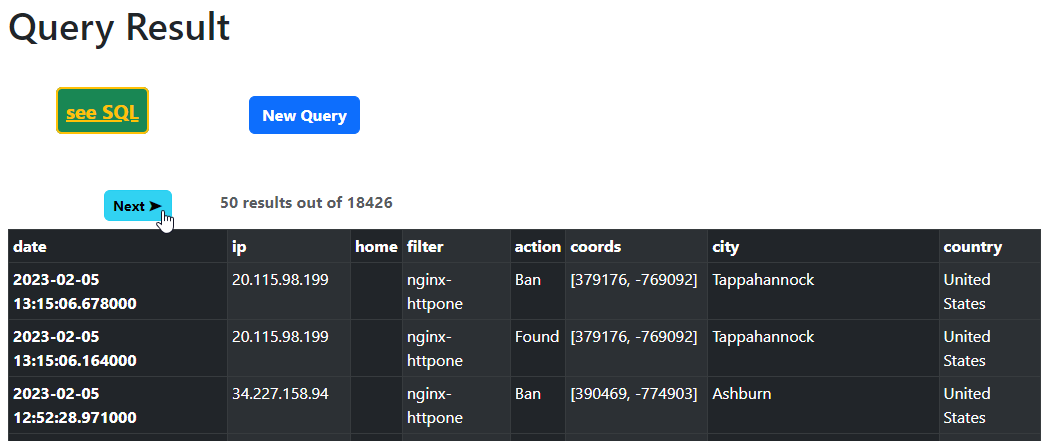
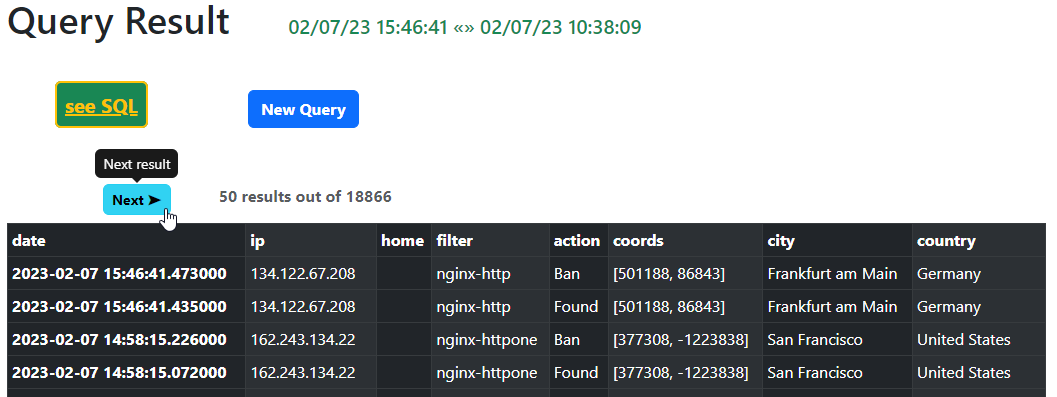
copybutton to db query results. bugfixes and improvements. doc updates

diff --git a/BeatLog/templates/data_view_result.html b/BeatLog/templates/data_view_result.html
@@ -2,11 +2,17 @@
 {% block title %}EzQuery Result{% endblock %}
 
 {% block content %}
-  <h1 class="mb-5">Query Result</h1>
+  <h1 class="mb-5">Query Result
+    {% if bounds %}<span class="fs-5 text-success ms-5">{{ bounds[0] }} «» {{ bounds[1] }}</span>{% endif %}
+  </h1>
 	<a class="mx-5 my-3 fs-5 fw-bold bg-success text-warning border border-warning border-2 p-2 rounded" href="#sqlCollapse" data-bs-toggle="collapse">see SQL</a>
 	<a class="btn btn-primary ms-5 fw-bold" href="{{ url_for('db_view.db_view') }}">New Query</a>
 	  <div class="collapse mb-2" id="sqlCollapse" style="max-width:90vw;overflow:auto;max-height:150px;">
-		<div class="bg-warning mx-5 p-2">{{ SQL_r }}</div>
+		<div class="bg-warning mx-5 p-2">
+		  <button class="btn btn-sm" id="copybutton" style="float:right;" onclick="myFunction()" data-bs-toggle="tooltip" data-bs-title="Copy to clipboard"
+		   ><img src="/static/clipboard.svg"/></button>
+		  <div id="SQLstring">{{ SQL_r }}</div>
+		</div>
 	  </div>
 	{% if table %}
 	  <table class="table table-sm table-hover table-bordered table-striped-columns table-dark me-5 mt-5 caption-top">
@@ -24,7 +30,8 @@
 			{% if 'cityNULL' in prev_seq %}<input type="text" name="cityNULL" value="" hidden>{% endif %}									
 			<input type="text" name="IP_search" value="{{ prev_seq['IP_search'] }}" hidden>
 			<input type="text" name="previous" value="{{ next_seq[1] }}" hidden>
-		    <button type="submit" class="btn btn-sm btn-info mx-5 fw-bold rounded" name="query_log" value="{{ prev_seq['query_log'] }}">⮜ Previous</button>
+		    <button type="submit" class="btn btn-sm btn-info mx-5 fw-bold rounded" name="query_log" value="{{ prev_seq['query_log'] }}"
+			 data-bs-toggle="tooltip" data-bs-title="Return to last Query">⮜ Previous</button>
 		  </form>		
 		{% endif %}		  
 		{% if next_seq %}
@@ -40,9 +47,10 @@
 			{% if 'cityNULL' in next_seq[2] %}<input type="text" name="cityNULL" value="" hidden>{% endif %}			
 			<input type="text" name="IP_search" value="{{ next_seq[2]['IP_search'] }}" hidden>
 			<input type="text" name="previous" value="{{ next_seq[1] }}" hidden>
-		    <button type="submit" class="btn btn-sm btn-info mx-5 fw-bold rounded" name="query_log" value="{{ next_seq[2]['query_log'] }}" formtarget="_blank"> Next ➤</button>
+		    <button type="submit" class="btn btn-sm btn-info mx-5 fw-bold rounded" name="query_log" value="{{ next_seq[2]['query_log'] }}"
+			 data-bs-toggle="tooltip" data-bs-title="Next result"> Next ➤</button>
 		  </form>
-		  {{ table[1] }} results out of {{ next_seq[0] }}
+		  {{ table[1] }} results out of {{ next_seq[0] }} 
 		  </div>  
 		{% else %}
 		  </div>{{ table[1] }} results
@@ -59,4 +67,24 @@
 		<button type="button" class="btn-close" data-bs-dismiss="alert" aria-label="Close"></button>
 	  </div>
 	{% endif %}		
+{% endblock %}
+
+{% block script_additions %}
+  <script>
+  // Copy SQL string to clipboard, change appearance of button on click
+function myFunction() {
+  // Get text within "SQLstring"
+  var copyText = document.getElementById("SQLstring").innerText;
+   // Copy text to clipboard
+  navigator.clipboard.writeText(copyText);
+  // Change tooltip to indicate copied
+  document.getElementById("copybutton").setAttribute('class','btn btn-sm btn-success');
+  document.getElementById("copybutton").innerHTML = '<img src="/static/clipboard2-check.svg"/>';
+}
+  </script>
+  <script>
+  // Bootstrap Tooltips
+const tooltipTriggerList = document.querySelectorAll('[data-bs-toggle="tooltip"]')
+const tooltipList = [...tooltipTriggerList].map(tooltipTriggerEl => new bootstrap.Tooltip(tooltipTriggerEl))
+  </script>  
 {% endblock %}

diff --git a/BeatLog/templates/data_view.html b/BeatLog/templates/data_view.html
@@ -48,7 +48,8 @@
 		  <a class="btn btn-sm btn-secondary rounded mx-5 fs-5 fw-bold" href="#IPCollapse" data-bs-toggle="collapse">IP Address</a>
 	    </div>
 		<div class="collapse my-2" id="LocationCollapse">
-		  <p class="text-muted fw-bold ms-5">Specify Country and/or City . . . <span class="mx-5">check NULL for <a href="{{ url_for('geography.geography') }}">unnamed</a> locations</span></p>
+		  <p class="text-muted fw-bold ms-5">Specify Country and/or City . . . <span class="mx-5">check NULL for <a href="{{ url_for('geography.geography') }}">unnamed</a> locations.</span>
+		  <span class="mx-5 fw-normal">See <a href="{{ url_for('geography.geography_map') }}">Visitor Map</a> for recent locations.</span></p>
 
 		  <div class="d-flex">
 			  <input class="form-check-input ms-3 px-2 mt-2" type="checkbox" value="" name="countryNULL">

diff --git a/BeatLog/db_view.py b/BeatLog/db_view.py
@@ -77,6 +77,7 @@ def db_view():
 def db_view_result():
     next_seq = None
     prev_seq = None    
+    bounds = None
     
     form_data = {key:request.form[key] for key in request.form}    
     if 'previous' in request.form and request.form['previous'] != '':
@@ -128,7 +129,9 @@ def db_view_result():
                 for i,val in enumerate(olddata):
                     data.append([olddata[i][k] for k in range(0,len(olddata[i])) if k not in rm_ind])
                 _ = [cols.pop(cols.index(k)) for k in remove]
-            table = table_build(data, cols, True)            
+            table = table_build(data, cols, True)
+            bounds = [data[0][0].strftime('%x %X'), data[len(data)-1][0].strftime('%x %X')] if table else bounds
+            
             # if result > size limit, provide "next" query, and provide current query for return
             total = cur.execute(' '.join([val.as_string(cur) for val in check_seq])).fetchone()[0] 
             if total > rows:
@@ -137,4 +140,4 @@ def db_view_result():
                 next_seq = (total, json.dumps(form_data), next_form)
 
     return render_template('data_view_result.html', SQL_r=SQL_r, table=table, alert=alert, 
-                            next_seq=next_seq, prev_seq=prev_seq)
+                            next_seq=next_seq, prev_seq=prev_seq, bounds=bounds)

diff --git a/BeatLog/db_query.py b/BeatLog/db_query.py
@@ -8,7 +8,7 @@ from .db_pool import pool
 
 SQL_statements = { 'basic': 'SELECT * FROM {}', 'geocheck': 'SELECT geo FROM {}',
                     'access':{
-'httpv2': 'AND http==20',
+'httpv2': 'AND http=20',
 'httpv1': 'AND http<20',
 'ignorable': 'AND (status BETWEEN 400 AND 499 OR http<20)',
 'regex2': 'AND (http IS NULL AND method IS NULL)'
@@ -61,8 +61,6 @@ def db_query(log, query_type, dateOrder, date, rows, homeFilter, options, cur, c
     d_seq, d_geo_seq, later = add_date(dateOrder, date, query_type)
     sequence.append(d_seq)
     geo_seq.append(d_geo_seq)
-    
-    
     
 # fail2ban - Ignore Match ~!~ build special query ~!~          
     if log == 'fail2ban' and query_type == 'match ignores': #   

diff --git a/README.md b/README.md
@@ -90,6 +90,7 @@ Visitor locations can be visualized on an interactive map using [LeafletJS](http
 ## Installation
 
 BeatLog is available as [docker images](https://hub.docker.com/r/nbpub/beatlog/tags) in the following architectures. 
+The `latest` or `arm32v7-latest` tags are recommended, as they are built automatically with each update. I upload other tags manually. 
 
 *current version:* **[alpha-0.1.3](#development)**<br>
 | Architecture | Tag | *NullConnectionPool* |
@@ -331,7 +332,7 @@ python -m pip freeze
 
 ## Application Setup
 
-Create the container, monitor logs for proper startup, and then navigate to the WebUI at `http://<your-ip>:5000`.<br>**[Setup Guide](/docs#setup)**
+Create the container, monitor logs for proper startup, and then navigate to the WebUI at the port specified `http://<your-ip>:5000`.<br>**[Setup Guide](/docs#setup)**
 
 *If a database connection error is presented, check the parameters provided in your compose file and consult the container logs for more information.*
 
@@ -351,11 +352,23 @@ Get the most information from BeatLog following these steps:
 
 ### In Progress, alpha-0.1.3
 
-current: **latest, alpha-0.1.3, alpha-0.1.3t**
+[ChangeLog](#pre-alpha-014-details)
 
-previous: **alpha-0.1.2, alpha-0.1.2t**
+[Previous Versions](#pre-release-changelog)
 
-### Planned Improvements
+
+#### Planned changes, alpha-0.1.4
+
+- Features
+  - build simple [data query API](/../../issues/1) and associated help page
+	- Query creation scheme for data viewer page could easily be adapted for API
+	- May focus use on dashboard / alert applications
+	- must be enabled via Environmental Variable at startup, will default to disabled
+- Other
+  - Phase out `unauthorized.log` support *removing from Documentation gradually*
+  - Phase out `NullConnectionPool` release
+
+### Possible Improvements
 
 - Development
   - utilize row factories with psycopg to make cleaner database selections
@@ -372,9 +385,8 @@ previous: **alpha-0.1.2, alpha-0.1.2t**
     - ~~data viewer page: forms for guided SQL selects --> present data in tables~~
 	- build simple [data query API](/../../issues/1) and associated help page *. . . deciding if this is worth it*
 	  - Query creation scheme for data viewer page could easily be adapted for API
-- Other
-  - consider phasing out `unauthorized.log` *in progress*
-  - consider phasing out `NullConnectionPool` release
+	  - May focus use on dashboard / alert applications
+
 
 ### Local Installation - Python venv
 
@@ -394,13 +406,13 @@ See the Flask [Installation](https://flask.palletsprojects.com/en/2.2.x/installa
 
 ### Pre-Release Changelog
 
-| Version (Docker Hub) | Notes |
+| Version ([Docker Hub](https://hub.docker.com/r/nbpub/beatlog/tags)) | Notes |
 | :----: | --- |
 | alpha-0.1.0 | Initial release, testing docker deployment. Flask App environmental variables must be used with this image, similar to Local Installation. Internal port is `5000` for this container. |
 | alpha-0.1.1 | Switched WSGI from **Werkzeug** to **Gunicorn**, updated compose example. Minor fixes / tweaks. Working to properly implement Gunicorn, APScheduler, psycopg3 together. |
 | alpha-0.1.1t | `NullConnectionPool` version of alpha-0.1.1. may be more stable and less load on postgresql, might be slower. |
 | alpha-0.1.2, alpha-0.1.2t | Improved contruction of SQL queries across all functions and pages, with care for [SQL Injection risks](https://www.psycopg.org/psycopg3/docs/basic/params.html#danger-sql-injection). Docker images built via Github [workflow](/actions/workflows/main.yml). Added [demo page](https://nbpub.github.io/BeatLog/). Bugfixes and improvements. |
-| alpha-0.1.3, alpha-0.1.3t | Added **DB Query** and **View** pages to access database within BeatLog. Improved handling of **Known Devices.** Added location fill to scheduled log parsing. Bugfixes and improvements. |
+| alpha-0.1.3, alpha-0.1.3t | Added **DB Query** and **View** [pages](/docs#database-explorer) to access database within BeatLog. Improved handling of **Known Devices.** Added location fill to scheduled log parsing. Bugfixes and improvements. |
 
 ***psycogp3** [ConnectionPool](https://www.psycopg.org/psycopg3/docs/advanced/pool.html#connection-pools) vs. [NullConnectionPool](https://www.psycopg.org/psycopg3/docs/advanced/pool.html#null-connection-pools)*
 
@@ -408,6 +420,9 @@ See the Flask [Installation](https://flask.palletsprojects.com/en/2.2.x/installa
 
 <details><summary>═════════</summary>
 
+- DB Features
+  - page to query database (access, error, fail2ban logs) and page to view time-ordered results as table
+  - various filter options and pre-assembled queries
 - Documentation
   - added sections detailing new DB features
   - fixes for some images and file paths

diff --git a/docs/README.md b/docs/README.md
@@ -272,11 +272,13 @@ Example log of scheduled tasks: *comments added by me, they are not part of the 
 access: Parsing completed, 374 lines added in 2s.
 fail2ban: Parsing completed, 11 lines added in 0s.
 error: Parsing completed, 2 lines added in 0s
+
 # if locations are enabled and unnamed coordinates exist and a nominatim agent is specified
-# attempt location fill
+# --> attempt location fill
 [2022-09-17 13:11:41] [1] [INFO] Location Fill: 3 locations named out of 4 in 5 seconds
 [2022-09-17 13:11:41] [1] [INFO] (35.0,33.0) named Kannavia, Cyprus. (34.0021,-81.0423) named Columbia, United States. (28.5,-10.0) named caïdat d'Aouint Lahna, Morocco
 [2022-09-17 13:11:41] [1] [INFO] Error -- 'address' for (-43.0,67.0)
+
 # address not found for one location, manual update required
 # see links below
 ```
@@ -442,6 +444,8 @@ a specific start or end time specified. They default to `Starting : one week bef
 
 Each log be explored, and a variety of filters, settings, and log-specific pre-assembled queries are provided.
 
+<details><summary>Query Descriptions</summary>
+
 | Log - Query | Description |
 | :----: | --- |
 | **ALL** - Basic | Simply use the options specified at the top of the page. They default to all entries, going back from now, limited to 50 rows per page. |
@@ -461,6 +465,8 @@ Each log be explored, and a variety of filters, settings, and log-specific pre-a
 | **fail2ban** - Match Ignores | Attempt to match fail2ban ignores with home hits on the access log. Home Ignorable [specification](#home-ignorable) may improve matching. Same table as shown in [report](https://nbpub.github.io/BeatLog/#scrollspyHomeIgs). |
 | **fail2ban** - Filter | query for each fail2ban filter |
 
+</details>
+
 ![dataview2](/docs/pics/query_2.png "Queries for each log, basic simply uses the options shown above") 
 
 Coordinates, Cities, and Counties are added if any of the results have [geoinfo](#maxminddb). 
@@ -474,9 +480,15 @@ If the results are larger than the size limit, the result page provides a link t
 
 If the **Next** button is used, a **Previous** button is provided on the page. 
 This will only backtrack to the query from the source page. For this reason, **Next** results are automatically opened in a new tab.
-The **SQL** statement used to generate the table can be viewed for each result.
+
+The **SQL** statement used to generate the table can be viewed for each result. 
 
 ![dataview4](/docs/pics/query_4.png "If Next button used, a Previous button provides a link to one query back") 
+
+Conveninetly, it can be copied to the clipboard with a click.
+
+![dataview5](/docs/pics/query_5.png "Copy SQL statement to clipboard") 
+![dataview6](/docs/pics/query_6.png "Paste SQL statement somewhere") 
 
 
 ## Geography
